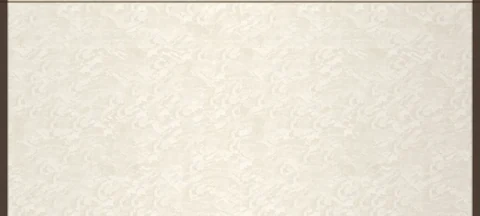
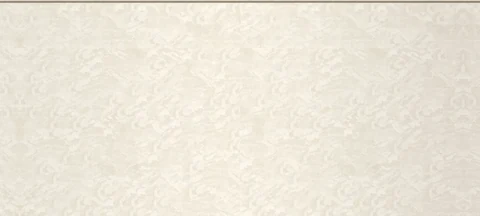
图画院的卷轴：两边那道深色的边拿掉
天头、画心、地头三截切出来以后，卷轴面左右两道深色的边换成紧挨着里面的锦和纸（make_tuhua_zhou.py slice 里量边宽、镜像补上）；
卷轴宽窄、轴杆、挂绳、小签都没动。

Changed region(s): [[0.9688, 0.0, 1.0, 1.0], [0.0, 0.0, 0.0312, 1.0]]

diff --git a/source/src/tuhua.js b/source/src/tuhua.js
@@ -201,7 +201,7 @@ export const ZHOU = {
 const PIC = { 竖: 4 / 3, 方: 1, 横: 3 / 4 };
 export function scrollParts(ratio, w, lines = 2) {
   const r = PIC[ratio] ? ratio : "方";
-  const m = Math.round(w * 0.065); // 画四周留的纸（让开卷轴面两边那道深色的边）
+  const m = Math.round(w * 0.065); // 画四周留的纸
   const iw = w - 2 * m;
   const ih = Math.round(iw * PIC[r]);
   const tian = Math.round(w * ZHOU.tian);

diff --git a/source/tools/make_tuhua_zhou.py b/source/tools/make_tuhua_zhou.py
@@ -1,5 +1,6 @@
 # 图画院的卷轴：直接从秘戏钱匣那一页里把展开的卷轴原样拍下来，切成五截。
 #   zhou-top.webp     天杆（连两头的小轴头）
+#   （天头、画心、地头这三截，卷轴面左右两道深色的边拿掉了，补上紧挨着的锦和纸）
 #   zhou-tian.webp    天头（锦，底下连着那道细线）
 #   zhou-paper.webp   画心那段纸（图画院里照画的横竖截长截短，画贴在上面）
 #   zhou-di.webp      地头（锦，上面连着那道细线）
@@ -90,6 +91,16 @@ def slice_(target=480):
     rt = np.nonzero((a[:face_top] > 0.3).any(axis=0))[0]
     top_x0, top_x1 = int(rt.min()), int(rt.max()) + 1
     k = target / fw
+    # 卷轴面左右两道深色的边拿掉（图画院里不要）：照中间那一截量出边有多宽，拿紧挨着里面那一溜镜像过来补上
+    mid = im[int(H * 0.3):int(H * 0.7), fl:fr, :3].mean(axis=(0, 2))
+    inner = float(np.median(mid[int(fw * 0.1):int(fw * 0.9)]))
+    eL = int(np.argmax(mid >= 0.97 * inner)); eR = int(np.argmax(mid[::-1] >= 0.97 * inner))
+
+    def no_edge(arr):
+        arr = arr.copy()
+        arr[:, :eL] = arr[:, eL:2 * eL][:, ::-1]
+        arr[:, fw - eR:] = arr[:, fw - 2 * eR:fw - eR][:, ::-1]
+        return arr
 
     def save(name, arr):
         img = Image.fromarray(arr.astype(np.uint8), "RGBA")
@@ -99,9 +110,9 @@ def slice_(target=480):
 
     sz = {
         "top": save("zhou-top.webp", im[0:face_top, top_x0:top_x1]),
-        "tian": save("zhou-tian.webp", im[face_top:tian_end, fl:fr]),
-        "paper": save("zhou-paper.webp", im[tian_end:di_start, fl:fr]),
-        "di": save("zhou-di.webp", im[di_start:roll_top, fl:fr]),
+        "tian": save("zhou-tian.webp", no_edge(im[face_top:tian_end, fl:fr])),
+        "paper": save("zhou-paper.webp", no_edge(im[tian_end:di_start, fl:fr])),
+        "di": save("zhou-di.webp", no_edge(im[di_start:roll_top, fl:fr])),
         "bottom": save("zhou-bottom.webp", im[roll_top:H, 0:W]),
     }
     # 都折成“卷轴面宽的几分之几”：页面上照轴宽缩放
@@ -113,7 +124,7 @@ def slice_(target=480):
     print(f"  di: {f(roll_top - di_start)},")
     print(f"  bottom: {{ h: {f(H - roll_top)}, x: {f(0 - fl)}, w: {f(W)} }},")
     print("};")
-    print("图的大小", sz)
+    print("图的大小", sz, "拿掉的边（左、右，原图像素）", eL, eR)
 
 
 if __name__ == "__main__":
